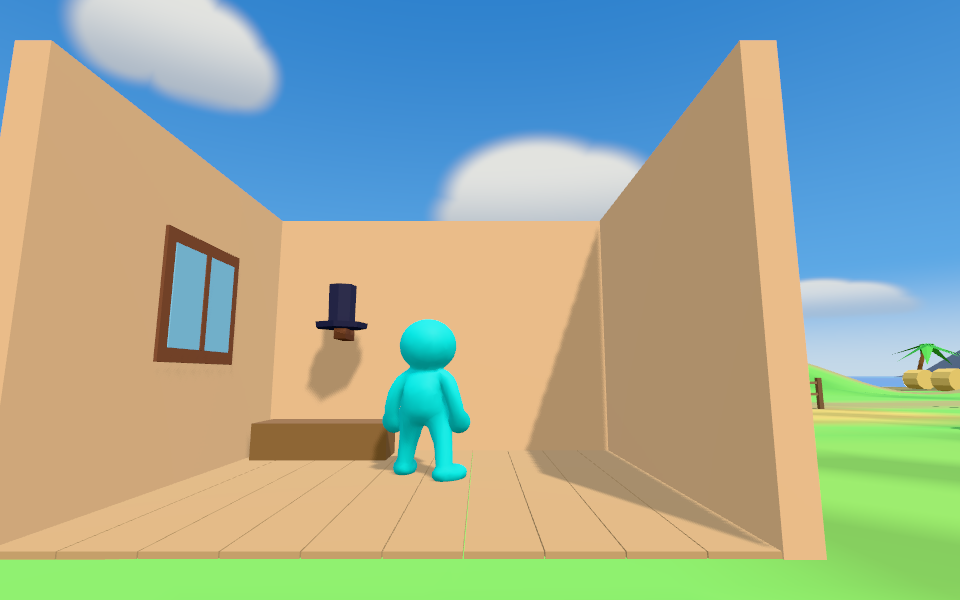
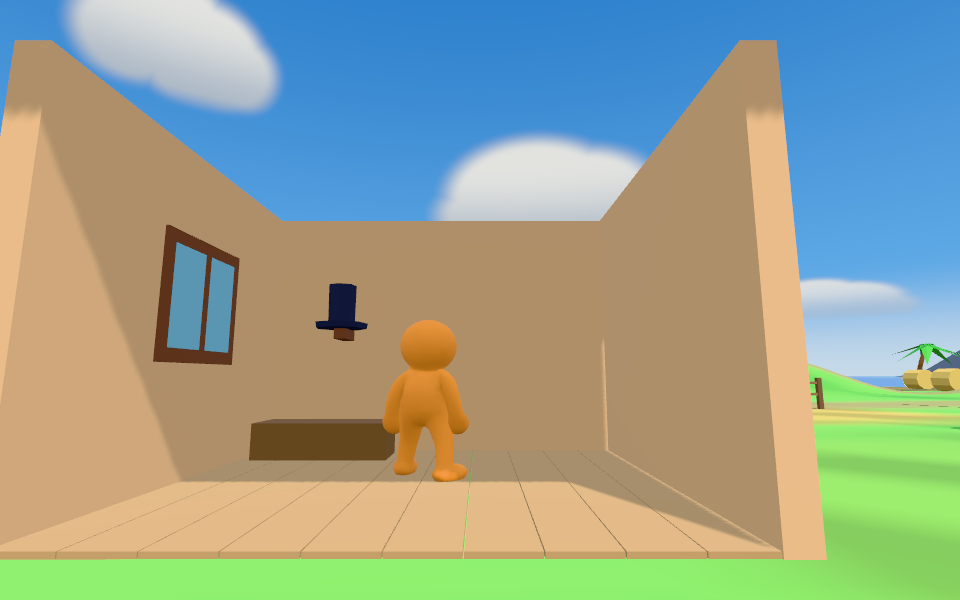
Keep the hut roof shading its room during the cutaway

Changed region(s): [[0.0, 0.06, 0.625, 0.81], [0.75, 0.06, 0.8125, 0.21]]

diff --git a/src/pois/boogler-hut/index.ts b/src/pois/boogler-hut/index.ts
@@ -1,4 +1,4 @@
-import * as THREE from 'three';
+import * as THREE from 'three/webgpu';
 import { CAVE_GROUP, ROOM_GROUP } from '../../constants.ts';
 import { defineKind, spawn } from '../../entity/entity.ts';
 import { siteFrame } from '../../island/stamps.ts';
@@ -35,7 +35,16 @@ onStart(() => {
   }
   const meshes = Array.from(faces, ([face, parts]) => {
     const mesh = new THREE.Mesh(mergeParts(parts), material);
-    mesh.castShadow = mesh.receiveShadow = true;
+    mesh.receiveShadow = true;
+    mesh.castShadow = face !== 'roof';
+    if (face === 'roof') {
+      // The cutaway hides the visible roof indoors. Its shadow stays on both the room and the meadow.
+      const shadowOnly = new THREE.MeshBasicNodeMaterial({ colorWrite: false, depthWrite: false });
+      const proxy = new THREE.Mesh(mesh.geometry, shadowOnly);
+      proxy.castShadow = true;
+      owner.add(proxy);
+      owner.cleanup(() => shadowOnly.dispose());
+    }
     owner.add(mesh);
     return { face, mesh };
   });
